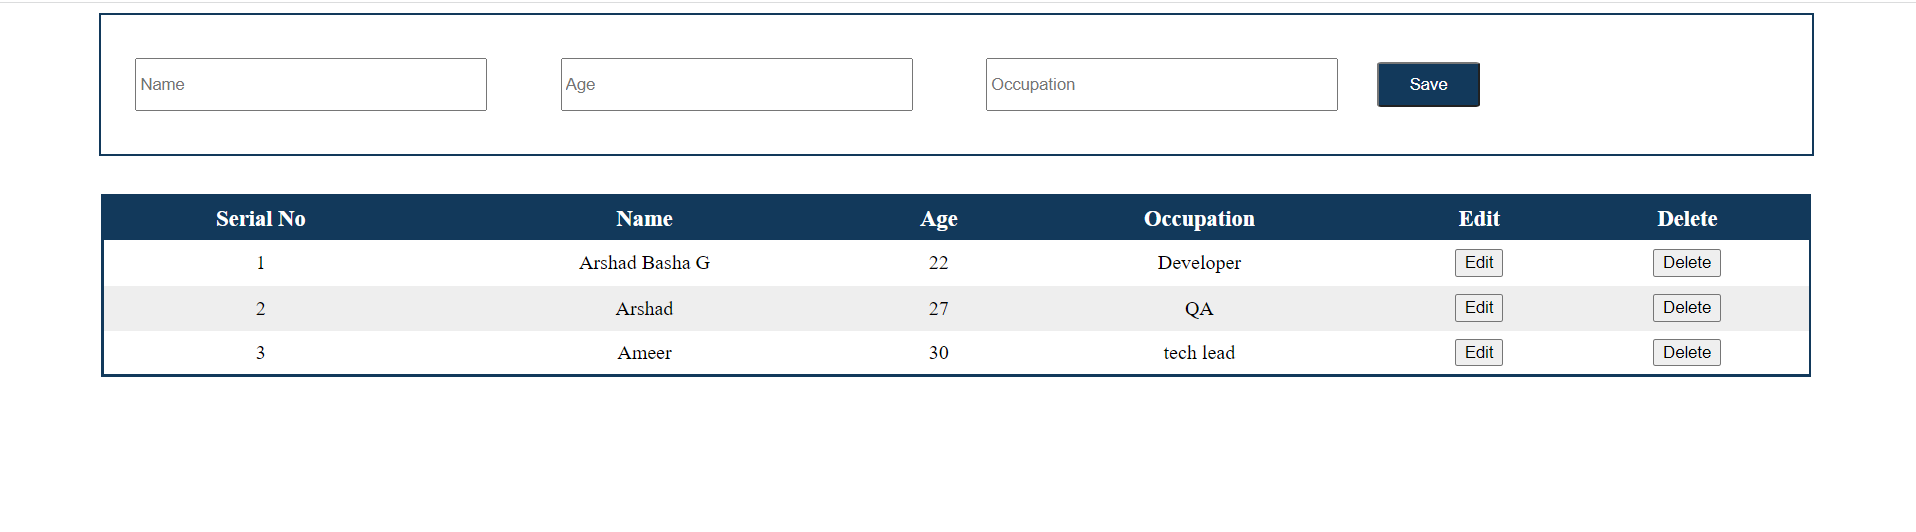
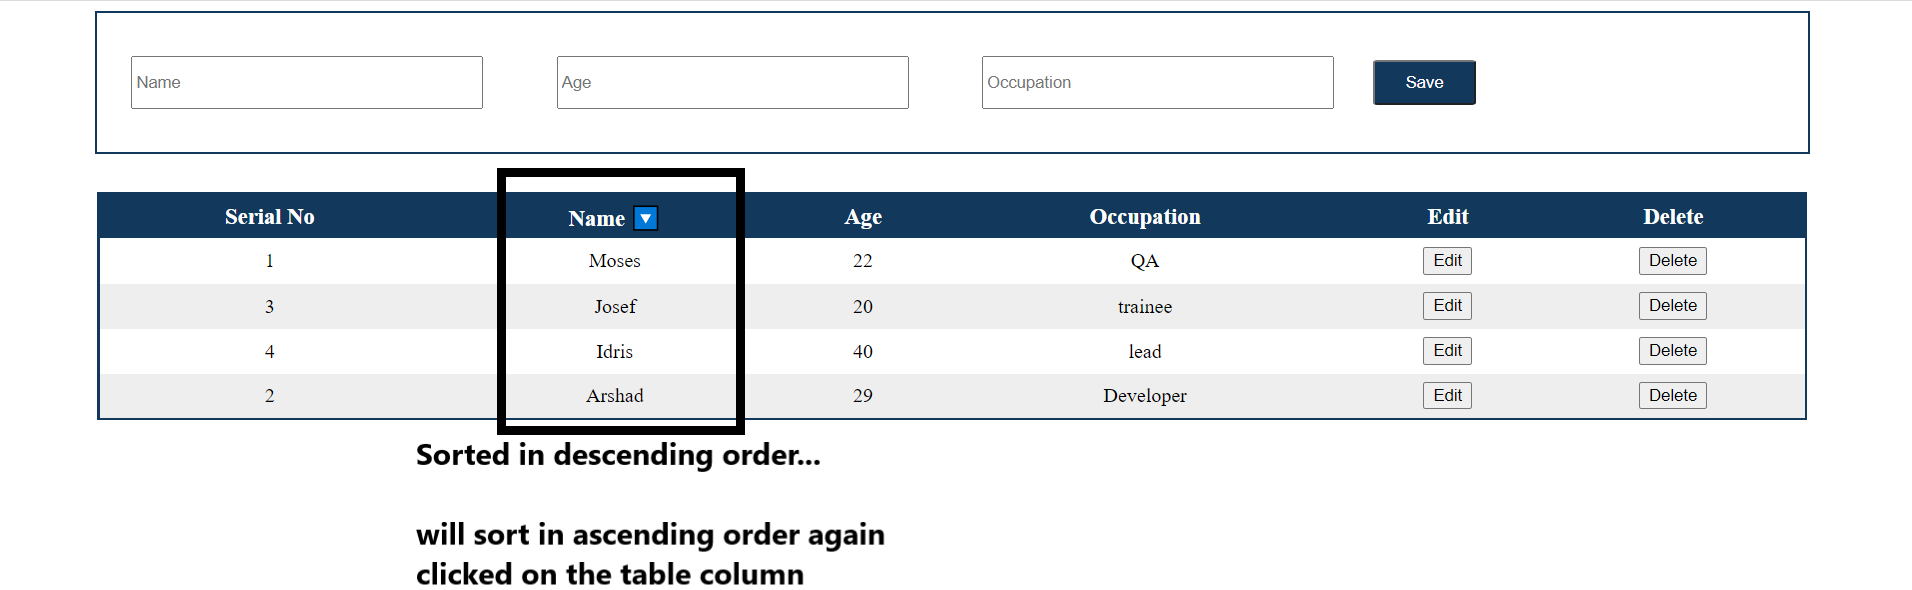
added sort feature to the columns

diff --git a/script.js b/script.js
@@ -187,3 +187,87 @@ cancelEditBtn.addEventListener('click',function(e){
 
     e.preventDefault();
 })
+
+
+// sorting rows by columns
+/*
+if(typeOf(column) ==string)
+{
+    if(previouslySorted == none||asc) { sort in desc }
+    else{ sort in asc}
+}
+//(typeOf(column) ==number)
+else
+{
+    if(previouslySorted == none||asc) { sort in desc }
+    else{ sort in asc}
+}
+*/
+allColumnNames = document.querySelectorAll('th');
+Array.from(allColumnNames);
+allColumnNames.forEach(function(eachColumnName,index){
+    eachColumnName.addEventListener('click',(e)=>
+    {
+        columnClicked = e.target;
+        columnType = columnClicked.getAttribute('data-type-of-column');
+        columnNameInScript = columnClicked.getAttribute('data-prop-name-in-js');
+        lastSortedType = columnClicked.getAttribute('data-last-sorted-type');
+
+        //set "columnClicked.setAttribute('data-last-sorted-type','none');" for the remaining(previous) columns
+        for(let i=0; i<allColumnNames.length; i++)
+        {
+            if(i== index){continue};
+            allColumnNames[i].setAttribute('data-last-sorted-type','none'); 
+        }
+
+        if(columnType == 'String')
+        {
+            // sort in desc order
+            if( (lastSortedType == 'none') || (lastSortedType == 'asc') )
+            {
+                data.sort(function(a,b){
+                    x = a[columnNameInScript].toLowerCase();
+                    y = b[columnNameInScript].toLowerCase();
+                    if (x > y) {return -1;}
+                    if (x < y) {return 1;}
+                    return 0;    
+                });
+                displayRecords();
+                columnClicked.setAttribute('data-last-sorted-type','des');
+            }  
+            // sort in asc order    
+            else
+            {
+                data.sort(function(a,b){
+                    x = a[columnNameInScript].toLowerCase();
+                    y = b[columnNameInScript].toLowerCase();
+                    if (x < y) {return -1;}
+                    if (x > y) {return 1;}
+                    return 0;
+                });
+                displayRecords();
+                columnClicked.setAttribute('data-last-sorted-type','asc');
+            }
+        }
+        // if columnType == 'number'
+        else
+        {
+            // sort in desc order
+            if((lastSortedType == 'none') || (lastSortedType == 'asc') )
+            {
+                data.sort((a,b)=> b[columnNameInScript] - a[columnNameInScript] );
+                displayRecords();
+                columnClicked.setAttribute('data-last-sorted-type','des');
+            }
+            // sort in asc order
+            else
+            {
+                data.sort((a,b)=> a[columnNameInScript]-b[columnNameInScript]);
+                displayRecords();
+                columnClicked.setAttribute('data-last-sorted-type','asc');
+            }
+        }
+        e.preventDefault();
+    })
+});
+

diff --git a/index.html b/index.html
@@ -32,10 +32,11 @@
     <table>
         <thead>
             <tr>
-                <th>Serial No</th>
-                <th>Name</th>
-                <th>Age</th>
-                <th>Occupation</th>
+                <!-- added 3 custom attributes to each column for sorting -->
+                <th data-type-of-column="number" data-prop-name-in-js="sNo" data-last-sorted-type="none">Serial No</th>
+                <th data-type-of-column="String" data-prop-name-in-js="name" data-last-sorted-type="none">Name</th>
+                <th data-type-of-column="number" data-prop-name-in-js="age" data-last-sorted-type="none">Age</th>
+                <th data-type-of-column="String" data-prop-name-in-js="occ" data-last-sorted-type="none">Occupation</th>
                 <th>Edit</th>
                 <th>Delete</th>
             </tr>

diff --git a/style.css b/style.css
@@ -88,6 +88,17 @@ thead
     text-align: center;
 }
 
+/* add sort symbol based on the value of attribute "data-last-sorted-type"  */
+thead tr th[data-last-sorted-type='des']::after
+{
+    content: " 🔽";
+}
+
+thead tr th[data-last-sorted-type='asc']::after
+{
+    content: " 🔼";
+}
+
 tr
 {
     height: 5vh;
